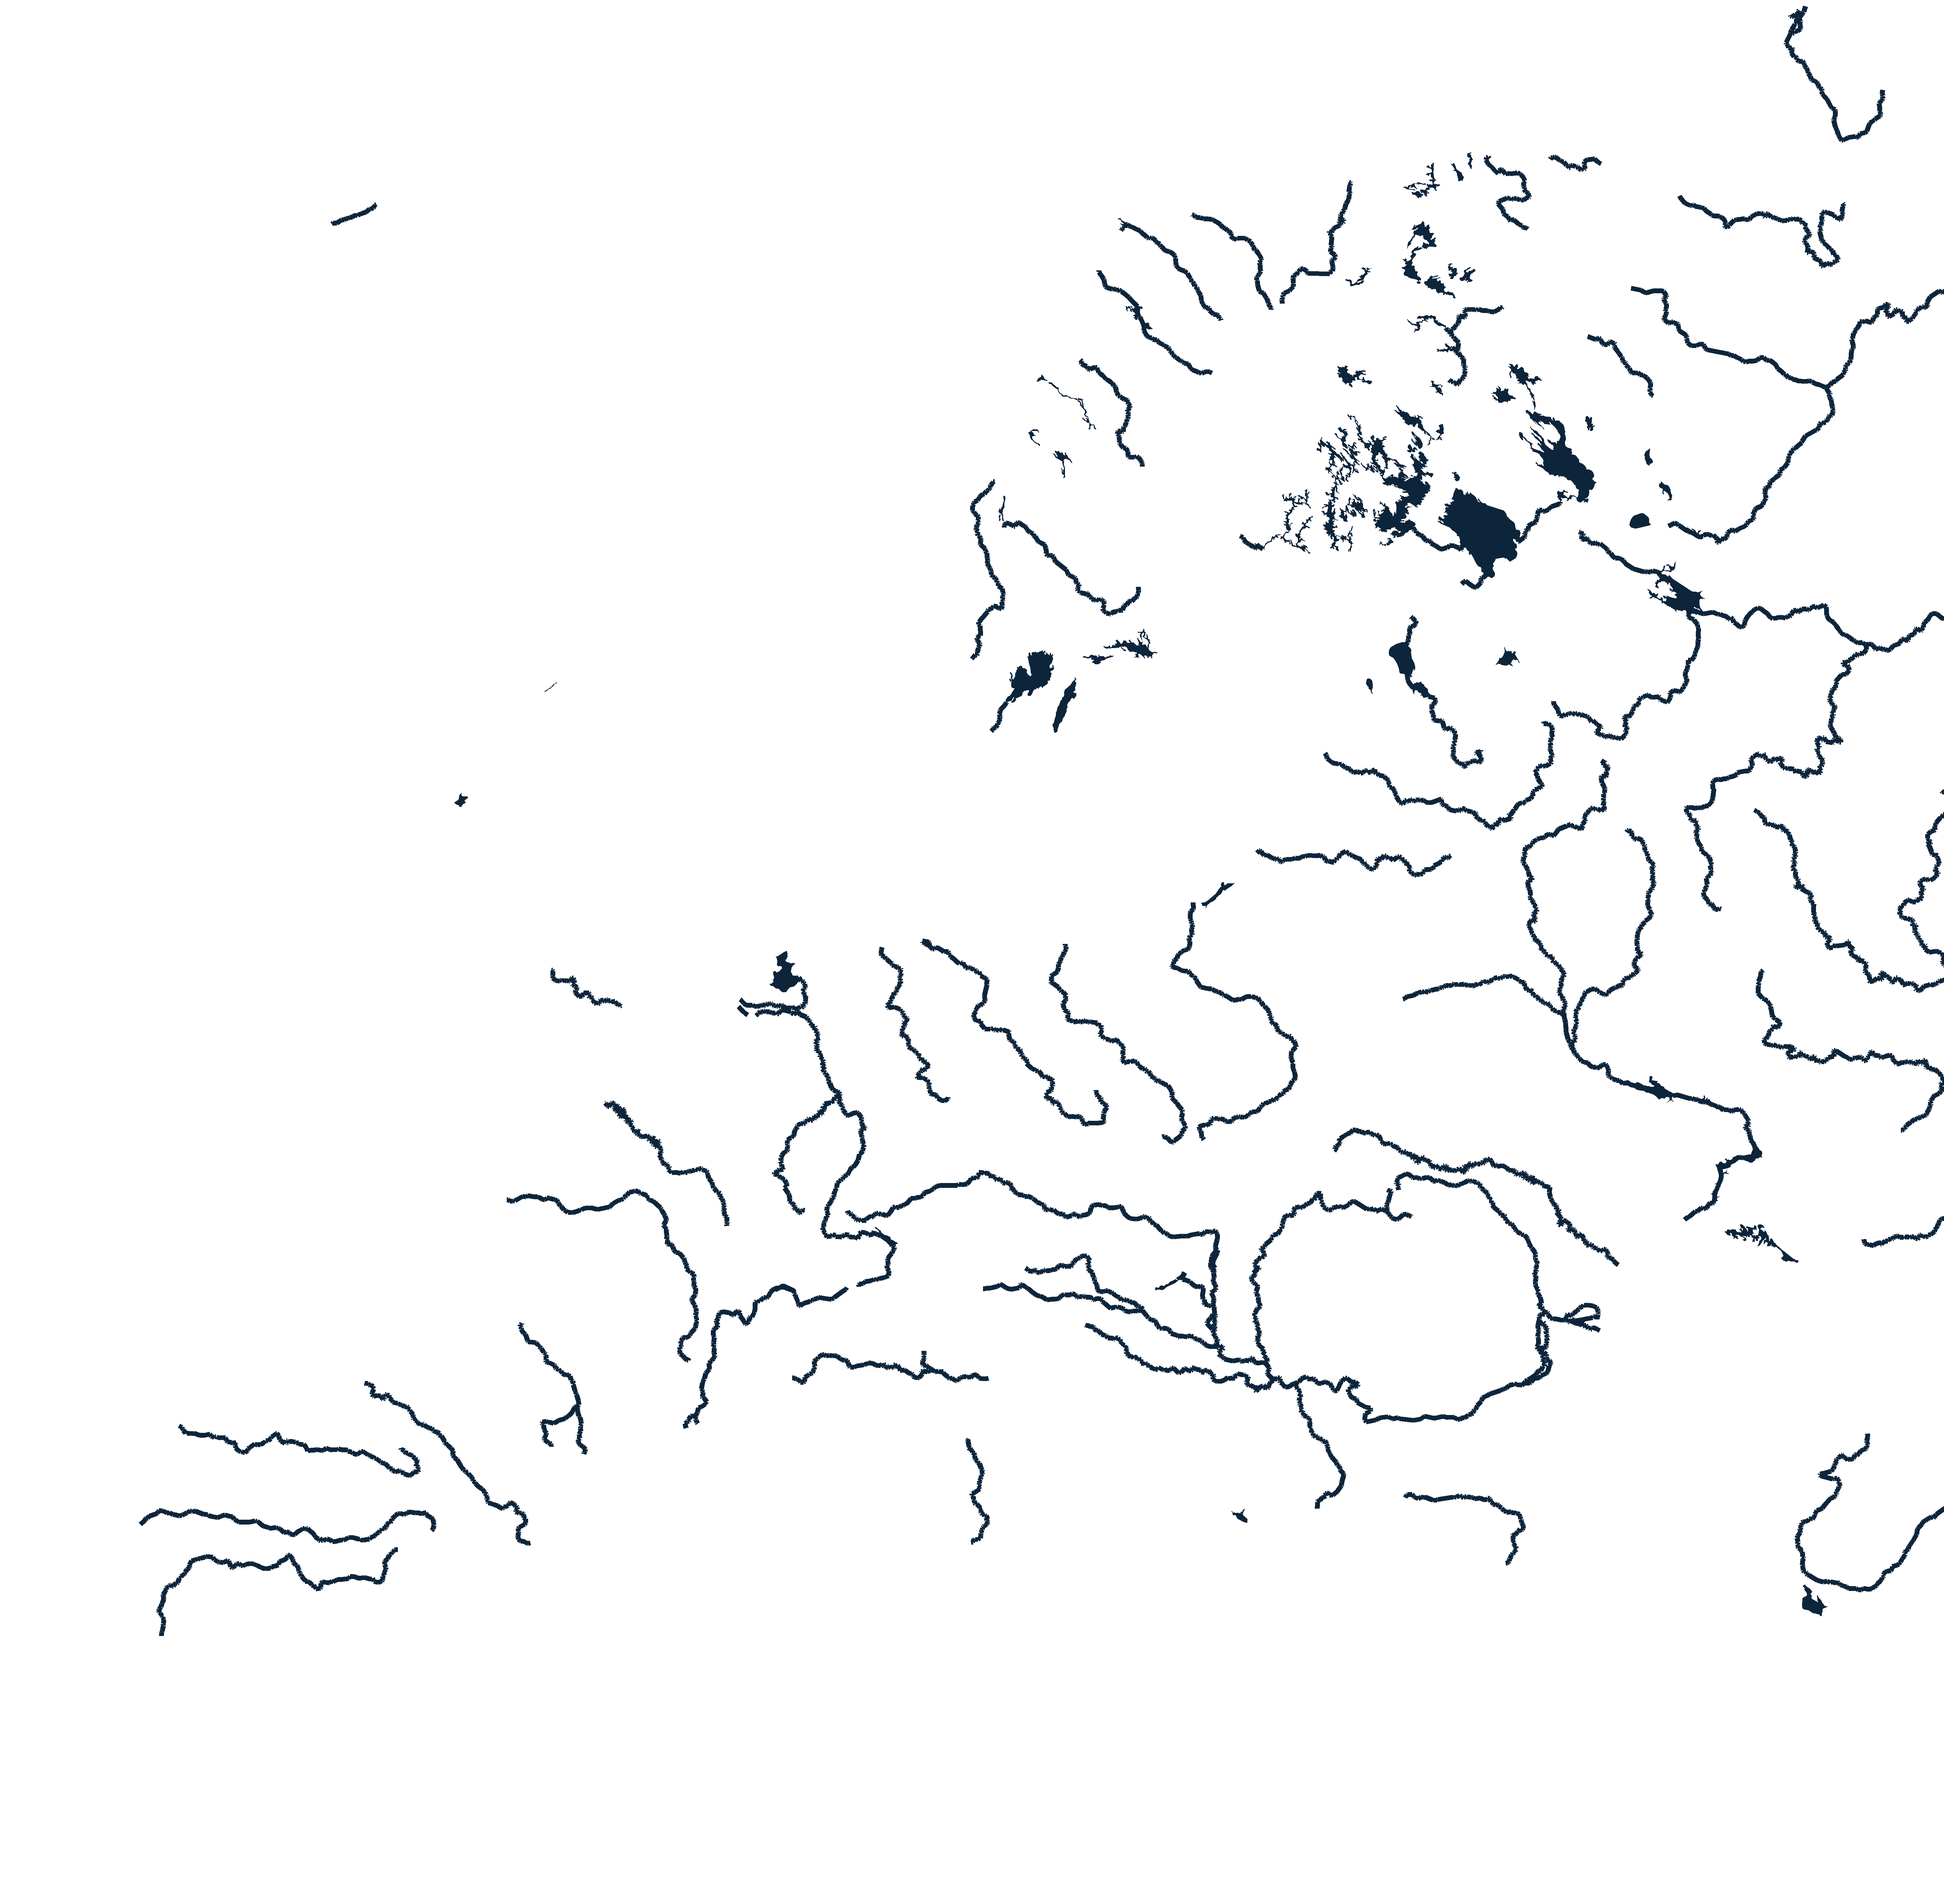
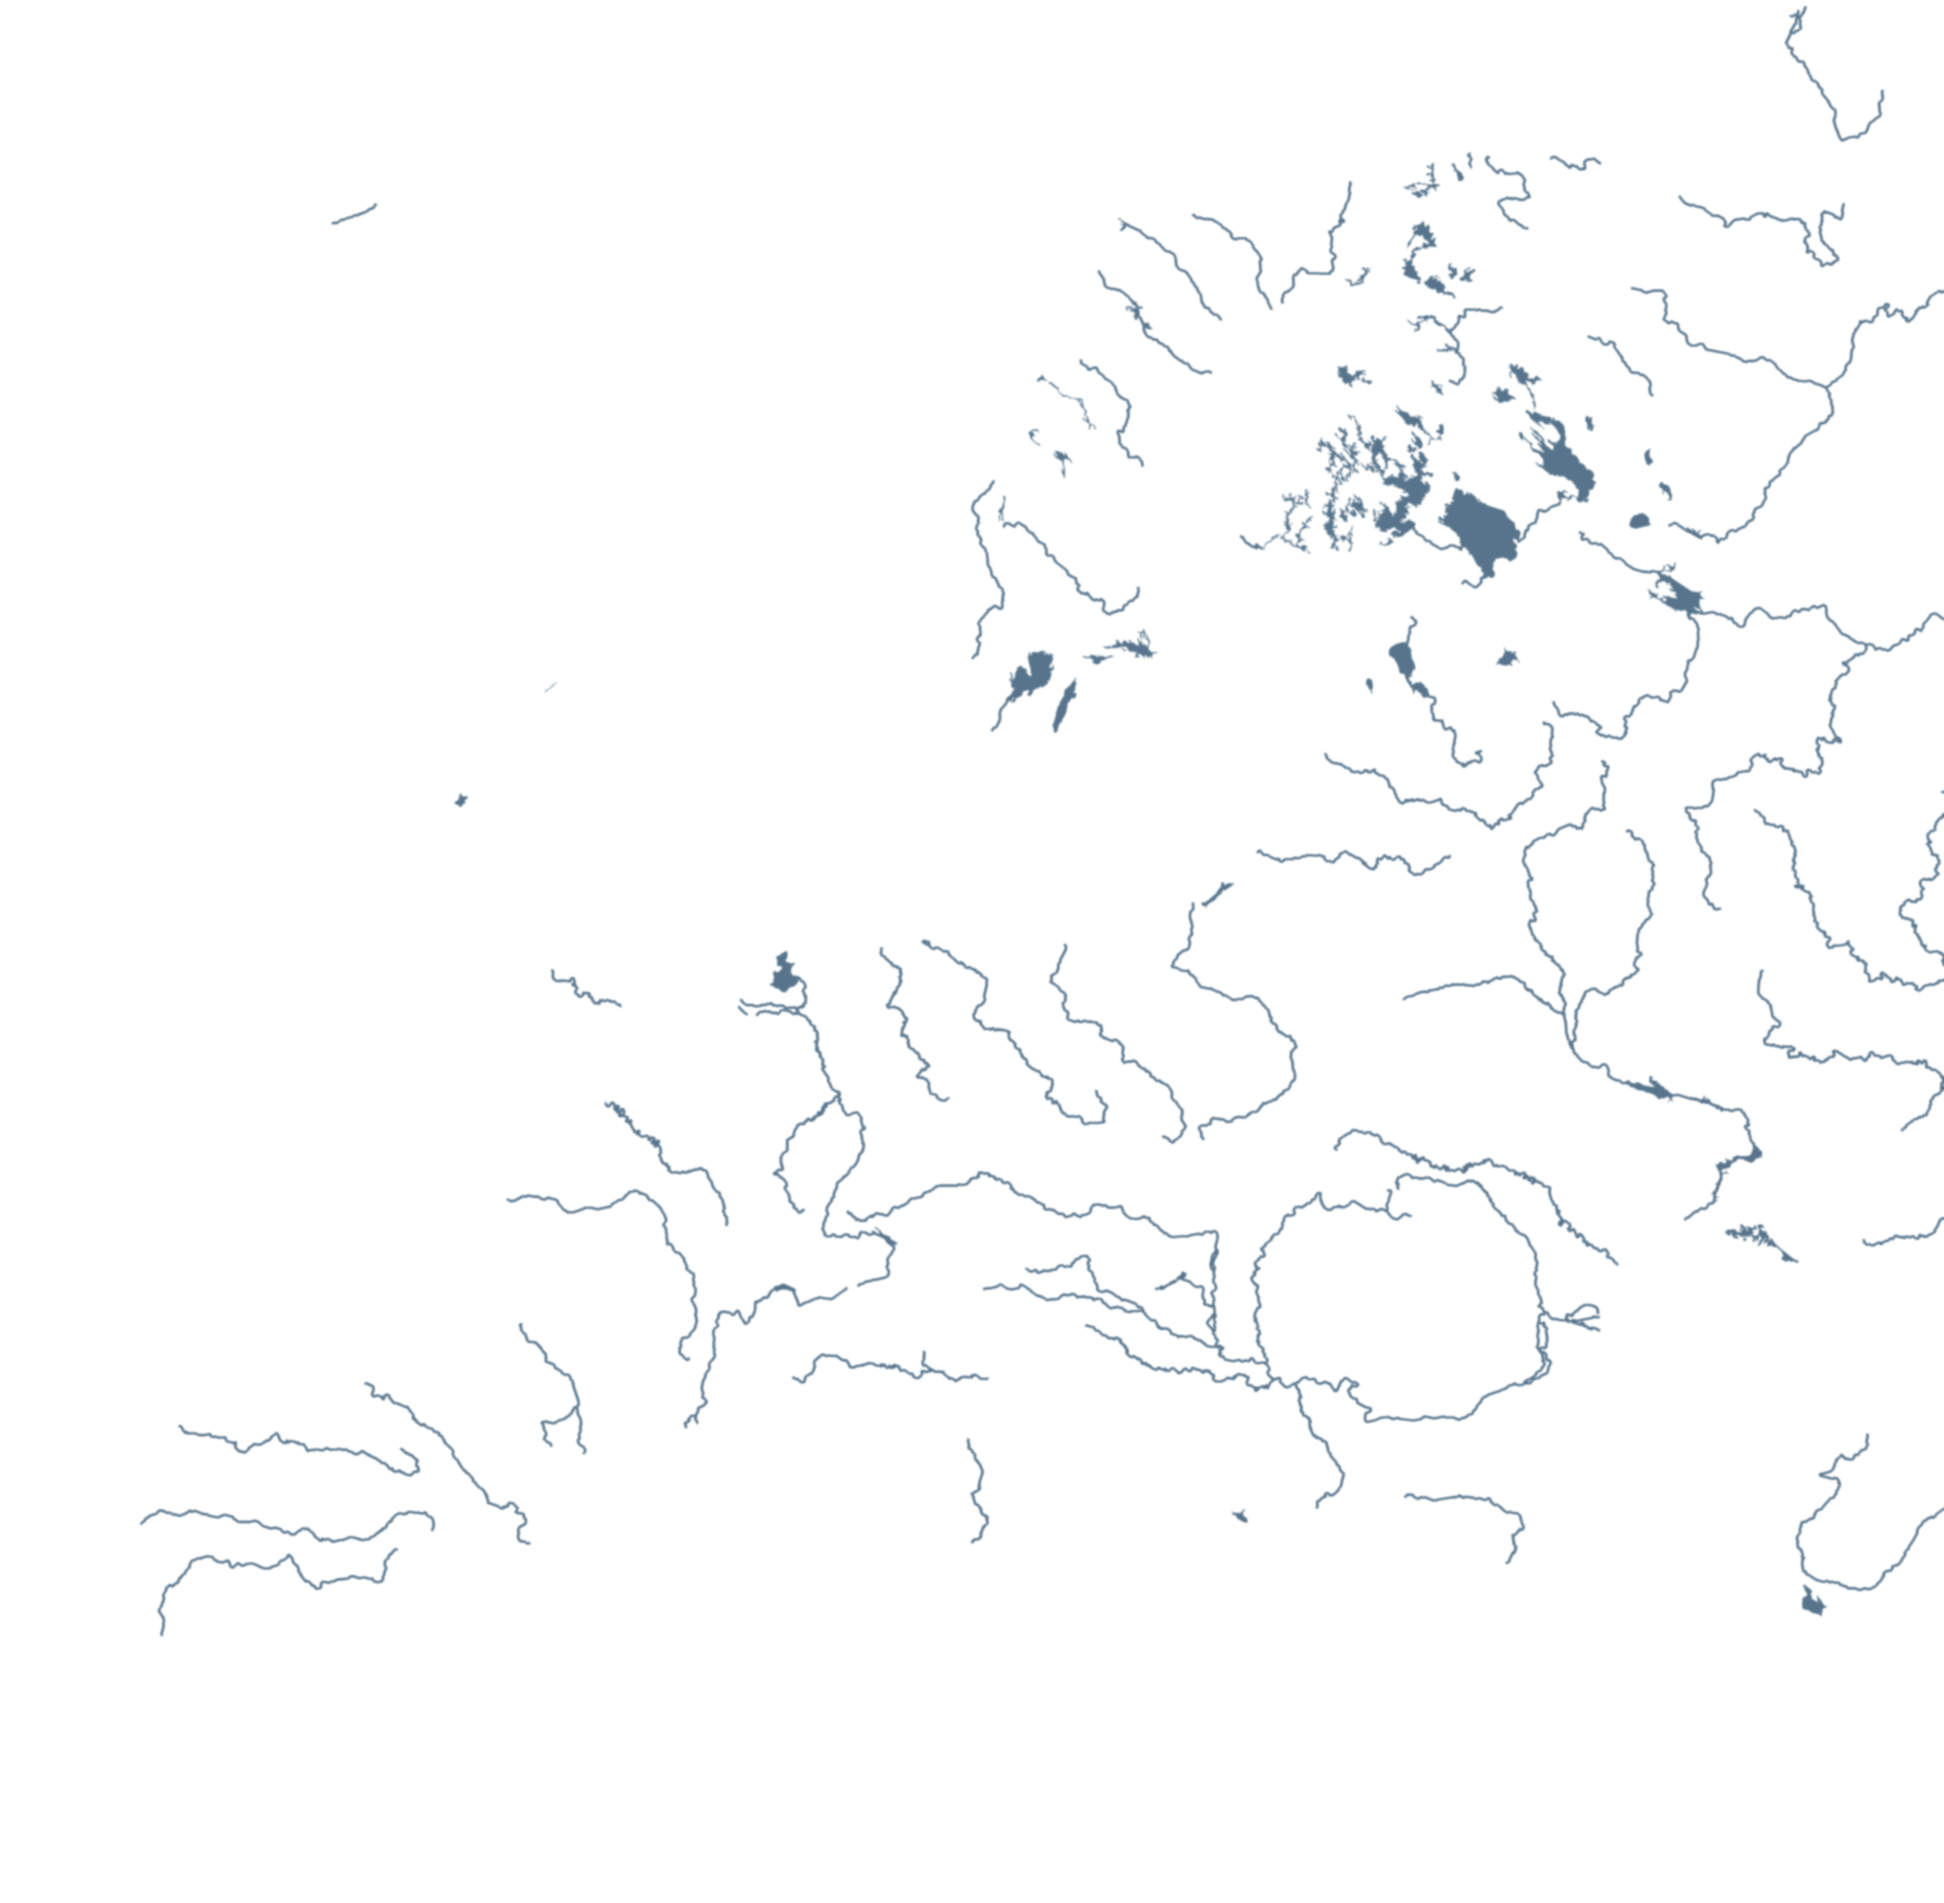
feat: apply Gaussian edge softening, flow-tapered river stroke widths, and multiply hillshade blending to water map

diff --git a/web/map/terrain-layer.js b/web/map/terrain-layer.js
@@ -164,7 +164,7 @@ export class TerrainLayer {
     if (this.showWaterRaster && (this.waterLoaded || (this.waterImg && this.waterImg.complete && this.waterImg.naturalWidth !== 0))) {
       ctx.save();
       ctx.globalAlpha = waterOpacity;
-      ctx.globalCompositeOperation = 'source-over';
+      ctx.globalCompositeOperation = 'multiply';
 
       const isWaterDetailAvailable = (this.waterDetailLoaded || (this.waterDetailImg && this.waterDetailImg.complete && this.waterDetailImg.naturalWidth !== 0));
       const wImg = (isWaterDetailAvailable && camera.current.w <= 1400) ? this.waterDetailImg : this.waterImg;

diff --git a/scripts/10-water-raster.py b/scripts/10-water-raster.py
@@ -1,14 +1,15 @@
 """Pre-Rendered Lambert Raster Water Mask Generator.
 
 Generates pixel-perfect raster water maps (`web/water.webp` and `web/water-detail.webp`)
-using the exact inverse Lambert Conformal Conic coordinate grid and 236 multi-segment river corridors and lakes.
+using the exact inverse Lambert Conformal Conic coordinate grid, 236 multi-segment river corridors,
+lakes, and Gaussian edge-feathering.
 
   python3 scripts/10-water-raster.py
 """
 import concurrent.futures as futures
 import json, math, pathlib, re
 import numpy as np
-from PIL import Image, ImageDraw
+from PIL import Image, ImageDraw, ImageFilter
 
 Image.MAX_IMAGE_PIXELS = None
 ROOT = pathlib.Path(__file__).resolve().parent.parent
@@ -20,7 +21,7 @@ raw_map = json.loads((ROOT / 'web' / 'data.json').read_text())
 
 
 def render_water(box, out_w, out_h):
-    """Renders a clean raster water image from lake polygons and river paths."""
+    """Renders a clean, Gaussian-feathered raster water image."""
     # 1. Create 8-bit alpha mask canvas
     overlay = Image.new('L', (out_w, out_h), 0)
     draw = ImageDraw.Draw(overlay)
@@ -41,31 +42,35 @@ def render_water(box, out_w, out_h):
                 if len(pts) >= 3:
                     draw.polygon(pts, fill=255)
 
-    # 3. Draw River Channels (All 236 sub-segments)
+    # 3. Draw River Channels (All 236 sub-segments with flow-tapered widths)
     if 'rivers' in raw_map:
-        stroke_w = max(int(round(6.0 * (out_w / 2400.0))), 3)
+        base_w = max(float(3.2 * (out_w / 2400.0)), 1.8)
         for river_svg in raw_map['rivers']:
             sub_paths = [p.strip() for p in river_svg.split('M') if p.strip()]
             for sub in sub_paths:
                 coords = re.findall(r'[-+]?\d+(?:\.\d+)?', sub)
                 pts = [map_to_px(float(coords[i]), float(coords[i+1])) for i in range(0, len(coords)-1, 2)]
                 if len(pts) >= 2:
-                    draw.line(pts, fill=255, width=stroke_w)
+                    stroke_w = int(round(base_w))
+                    draw.line(pts, fill=255, width=stroke_w, joint='curve')
 
-    water_mask = np.asarray(overlay, dtype=np.float32) / 255.0
+    # 4. Apply Gaussian Edge Softening for smooth, natural riverbanks
+    blur_r = max(float(1.2 * (out_w / 2400.0)), 0.8)
+    overlay_blurred = overlay.filter(ImageFilter.GaussianBlur(radius=blur_r))
+    water_mask = np.asarray(overlay_blurred, dtype=np.float32) / 255.0
 
-    # 4. Generate RGBA Water Image
-    # Deep River & Lake Blue: RGB(14, 38, 58)
+    # 5. Generate RGBA Water Image
+    # Organic River & Lake Blue: RGB(24, 64, 96)
     rgba = np.zeros((out_h, out_w, 4), dtype=np.uint8)
-    rgba[..., 0] = 14  # Red
-    rgba[..., 1] = 38  # Green
-    rgba[..., 2] = 58  # Blue
-    rgba[..., 3] = (water_mask * 255.0).astype(np.uint8)
+    rgba[..., 0] = 24  # Red
+    rgba[..., 1] = 64  # Green
+    rgba[..., 2] = 96  # Blue
+    rgba[..., 3] = (water_mask * 185.0).astype(np.uint8)  # 72% opacity for translucent hillshade depth
 
     return rgba
 
 
-print("Generating clean Lambert raster water maps...")
+print("Generating clean Gaussian-softened Lambert raster water maps...")
 for name, out_w, quality in OUTPUTS:
     out_h = round(out_w * view['h'] / view['w'])
     img_rgba = render_water(view, out_w, out_h)
@@ -74,4 +79,4 @@ for name, out_w, quality in OUTPUTS:
     print(f'wrote {out.relative_to(ROOT)}  {out_w}x{out_h}  '
           f'{out.stat().st_size / 1024:.0f} KB')
 
-print("✓ Clean Lambert raster water maps generated successfully!")
+print("✓ Clean Gaussian-softened Lambert raster water maps generated successfully!")
